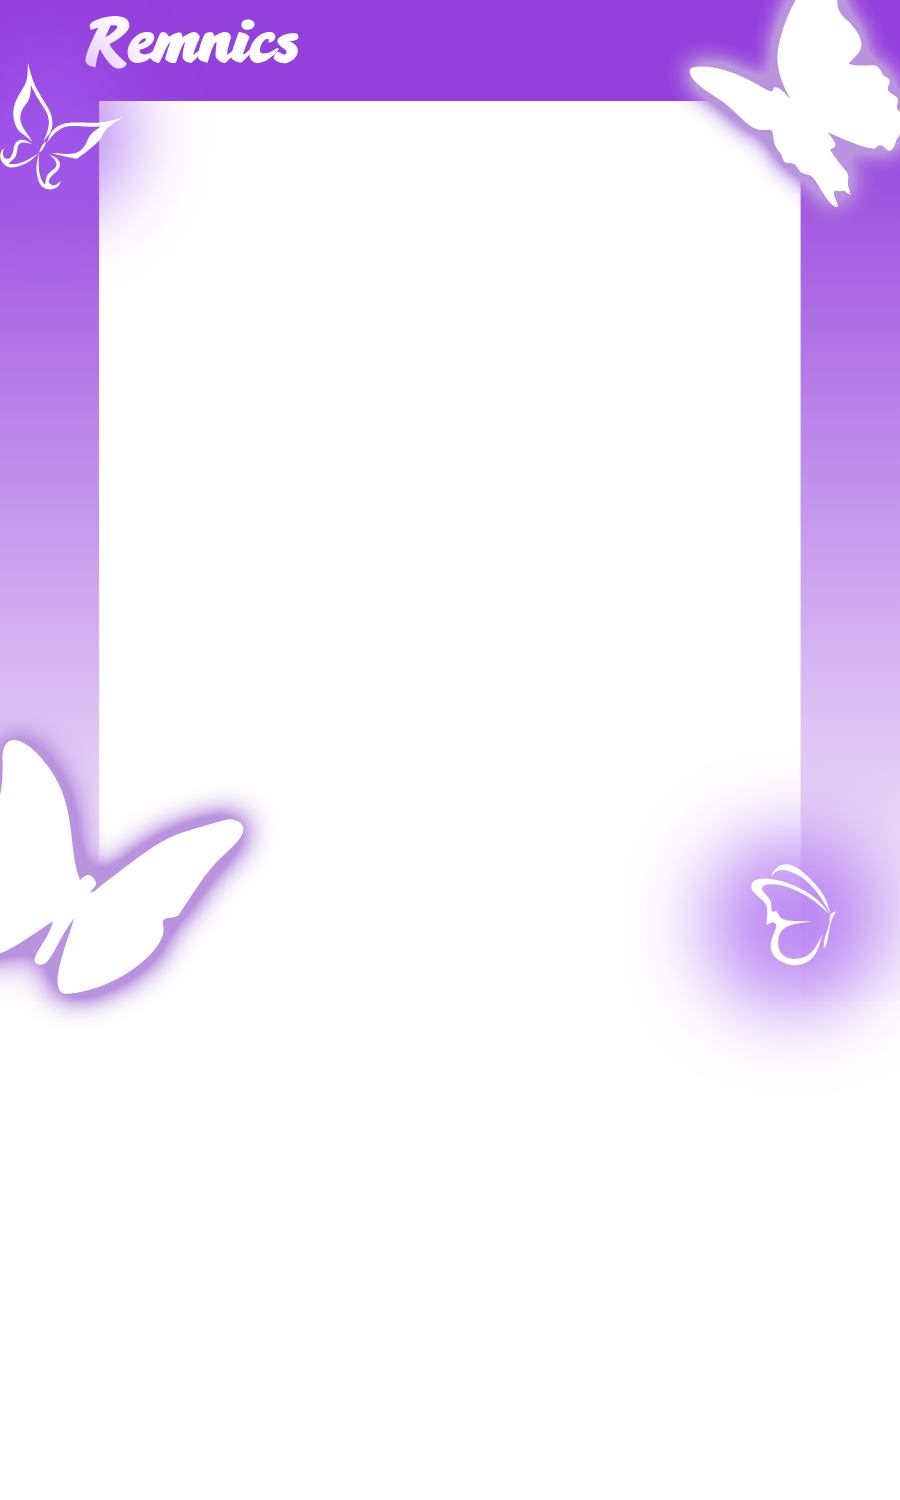
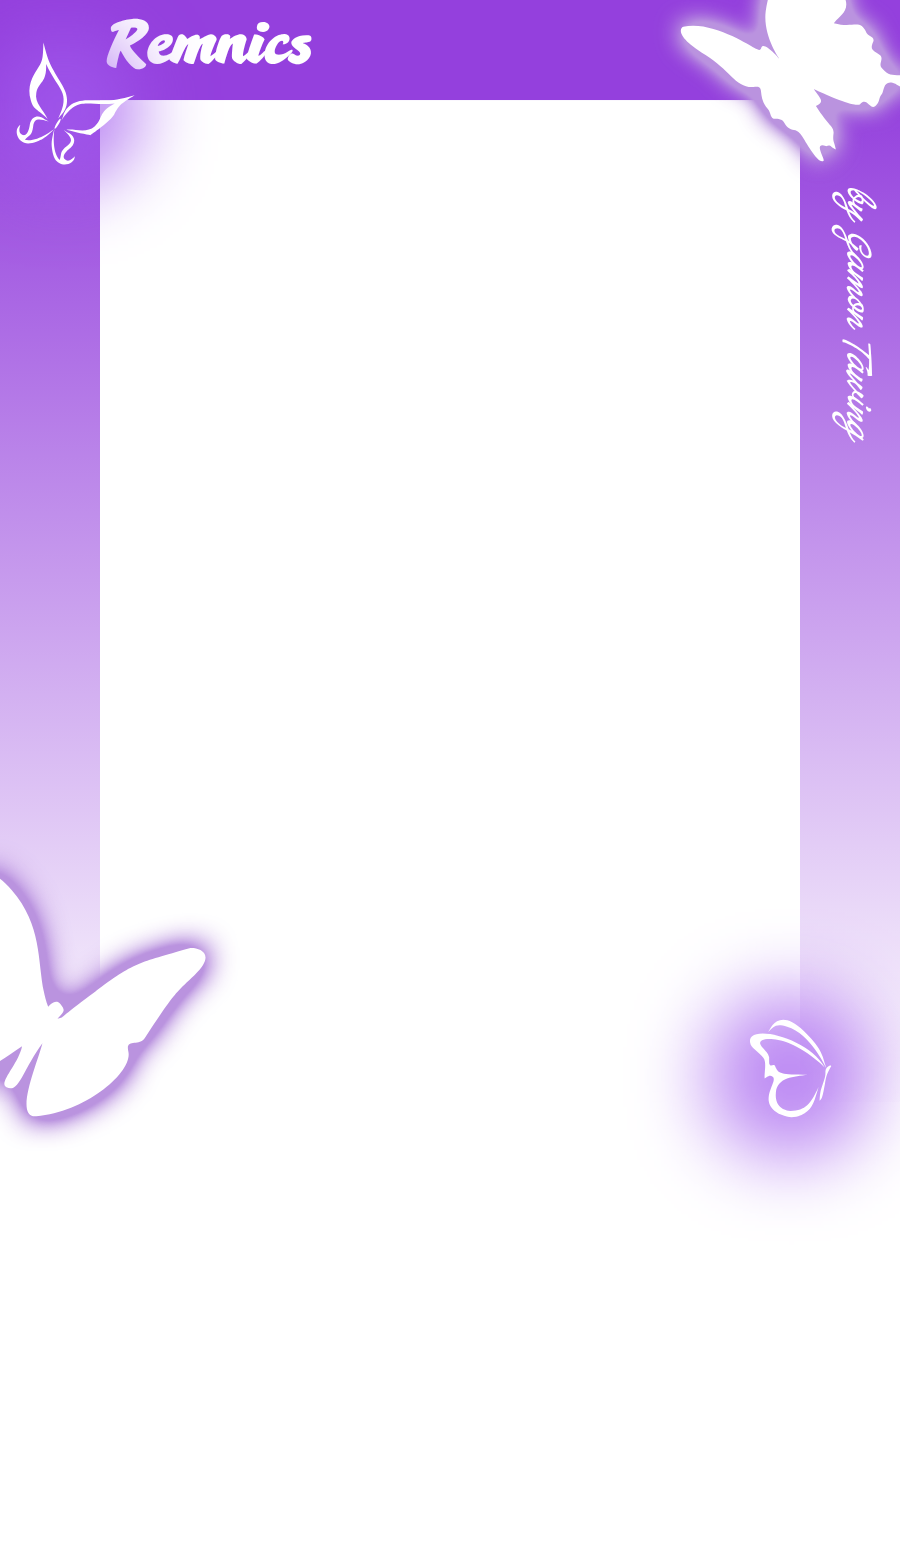
memperbaiki frame jadi 1560px

Changed region(s): [[0.0, 0.0, 1.0, 0.276], [0.7467, 0.5213, 1.0, 0.7667], [0.0, 0.4907, 0.3111, 0.736]]

diff --git a/photobox.html b/photobox.html
@@ -92,11 +92,23 @@
                     </p>
                 </div>
                 
-                <!-- CAMERA SCREEN (Disesuaikan mengikuti rasio master polaroid 900x1350) -->
-                <div id="cameraContainer" class="relative w-full bg-white rounded-2xl overflow-hidden shadow-inner border border-neutral-200" style="aspect-ratio: 900 / 1350;">
+                <!-- CAMERA SCREEN (Disesuaikan mengikuti rasio master polaroid 900x1560) -->
+                <div id="cameraContainer" class="relative w-full bg-white rounded-2xl overflow-hidden shadow-inner border border-neutral-200" style="aspect-ratio: 900 / 1560;">
                     
-                    <!-- Area Kotak Lubang Foto Kamera (Persis sama dengan posisi X:85, Y:90, W:730, H:940 dari canvas 900x1350) -->
-                    <div class="absolute overflow-hidden" style="left: 9.44%; top: 6.66%; width: 81.11%; height: 69.63%;">
+                    <!--
+X:100
+Y:100
+W:700
+H:1000
+-->
+                   <div
+class="absolute overflow-hidden"
+style="
+left:11.11%;
+top:6.41%;
+width:77.78%;
+height:64.10%;
+">
                         <video id="video" class="hidden absolute inset-0 w-full h-full object-cover" autoplay playsinline></video>
                         <canvas id="outputCanvas" class="absolute inset-0 w-full h-full"></canvas>
                         <img id="photoPreview" class="hidden absolute inset-0 w-full h-full object-cover" alt="Preview">
@@ -413,15 +425,16 @@
     async function startCamera() {
         try {
             localStream = await navigator.mediaDevices.getUserMedia({ 
-                video: { facingMode: "user", width: { ideal: 1280 }, height: { ideal: 720 } }
+                video: { facingMode: "user", width: { ideal: 1920 }, height: { ideal: 1080 } }
             });
             video.srcObject = localStream;
             video.onloadedmetadata = async () => {
                 await video.play();
                 const vw = video.videoWidth;
                 const vh = video.videoHeight;
-                const PHOTO_WIDTH = 730;
-                const PHOTO_HEIGHT = 940;
+                
+                const PHOTO_WIDTH = 700;
+                const PHOTO_HEIGHT = 1002;
                 const targetRatio = PHOTO_WIDTH / PHOTO_HEIGHT;
                 let cw, ch;
 
@@ -672,7 +685,7 @@
         const ctx = polaroidCanvas.getContext('2d');
         
         polaroidCanvas.width = 900;
-        polaroidCanvas.height = 1350;
+        polaroidCanvas.height = 1560;
 
         const frame = new Image();
         const img = new Image();
@@ -690,10 +703,10 @@
             })
         ]);
 
-        const photoX = 85;
-        const photoY = 90;
-        const photoWidth = 730;
-        const photoHeight = 940;
+        const photoX = 100;
+        const photoY = 100;
+        const photoWidth = 700;
+        const photoHeight = 1002; // Disesuaikan menjadi 1002 agar pas tanpa ada celah garis hitam
 
         const imgRatio = img.width / img.height;
         const frameRatio = photoWidth / photoHeight;
@@ -720,19 +733,19 @@
         ctx.font = "italic 500 22px 'Playfair Display', serif";
         
         ctx.textAlign = "left";
-        ctx.fillText(`Dear: ${tujuan}`, 85, 1065);
+        ctx.fillText(`Dear: ${tujuan}`, 100, 1145);
 
         ctx.textAlign = "right";
-        ctx.fillText(`— Dari: ${nama}`, 815, 1065);
+        ctx.fillText(`— Dari: ${nama}`, 800, 1145);
 
         ctx.strokeStyle = "#CBD5E1";
         ctx.lineWidth = 2;
         ctx.beginPath();
-        ctx.moveTo(85, 1085);
-        ctx.lineTo(815, 1085);
+        ctx.moveTo(100, 1165);
+        ctx.lineTo(800, 1165);
         ctx.stroke();
 
-        let textMaxWidth = 730;
+        let textMaxWidth = 700;
         if (audioBase64) {
             const qrContainer = document.getElementById("qrcode");
             qrContainer.innerHTML = "";
@@ -751,10 +764,10 @@
 
             if (qrCanvas) {
                 const qrSize = 120;
-                const qrX = 680;
-                const qrY = 1105;
+                const qrX = 650;
+                const qrY = 1195;
                 ctx.drawImage(qrCanvas, qrX, qrY, qrSize, qrSize);
-                textMaxWidth = 570; 
+                textMaxWidth = 520;
             }
         }
 
@@ -766,14 +779,14 @@
             const words = pesan.split(' ');
             let line = '';
             let lineCount = 0;
-            let currentY = 1135;
+            let currentY = 1200;
             const lineHeight = 34;
 
             for (let n = 0; n < words.length; n++) {
                 let testLine = line + words[n] + ' ';
                 let metrics = ctx.measureText(testLine);
                 if (metrics.width > textMaxWidth && n > 0) {
-                    ctx.fillText(line, 85, currentY);
+                    ctx.fillText(line, 100, currentY);
                     line = words[n] + ' ';
                     currentY += lineHeight;
                     lineCount++;
@@ -783,7 +796,7 @@
                 }
             }
             if (lineCount < 3) {
-                ctx.fillText(line, 85, currentY);
+                ctx.fillText(line, 100, currentY);
             }
         }
 
